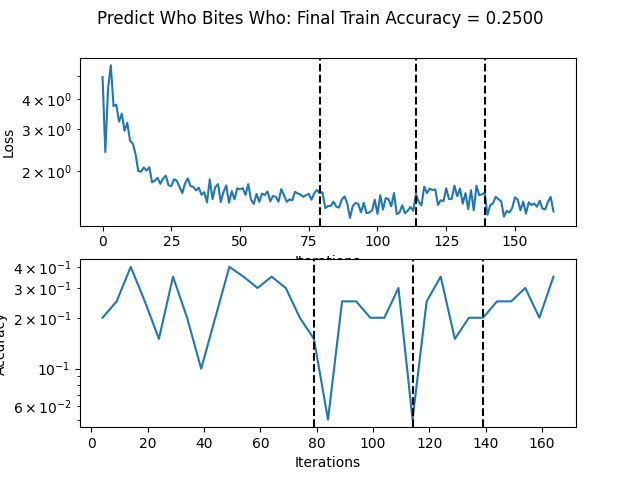
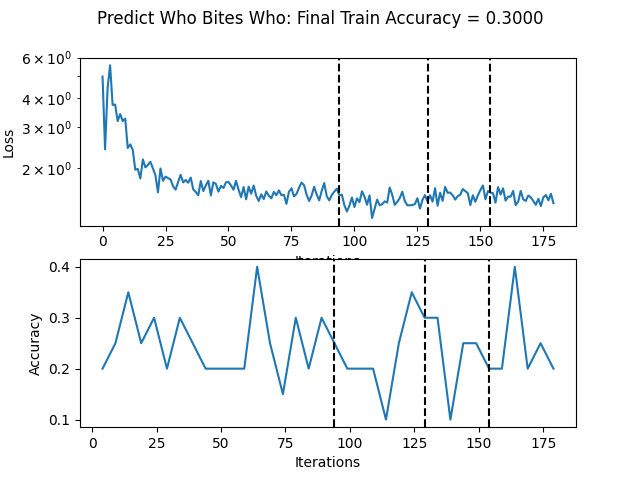
about to switc hto vocab list

diff --git a/Hw_6/runners/predict_who_bites_who.py b/Hw_6/runners/predict_who_bites_who.py
@@ -47,7 +47,7 @@ def train(config_path: Path, use_last_checkpoint: bool):
     rng.reset_from_seed(0x43966E87BD57227011B5B03B58785EC1)
     tf.random.set_seed(0x43966E87BD57227011B5B03B58785EC1)
 
-    # TODO: padding mask and causal mask, using the embedder
+    # TODO: padding mask
     with open("data/who_bites_who.txt", "r", encoding="utf-8") as f:
         one_big_slab_of_text = f.read()
 
@@ -98,7 +98,9 @@ def train(config_path: Path, use_last_checkpoint: bool):
 
     checkpoint = tf.train.Checkpoint(transformer_decoder)
     checkpoint_manager = tf.train.CheckpointManager(
-        checkpoint, "temp/checkpoints/predict_who_bites_who", max_to_keep=1
+        checkpoint,
+        "temp/checkpointtemp/checkpoints/predict_who_bites_whos/predict_who_bites_who",
+        max_to_keep=1,
     )
     if use_last_checkpoint:
         print("\n\nRestoring from last checkpoint")
@@ -193,18 +195,19 @@ def train(config_path: Path, use_last_checkpoint: bool):
                 adam.learning_rate = learning_rates[learning_rate_index]
                 learning_rate_change_steps = np.append(learning_rate_change_steps, i)
                 minimum_loss_step_num = i
-                checkpoint_manager.restore_or_initialize()
+                # TODO: i feel like this should be here but smth is wrong
+                # checkpoint_manager.restore_or_initialize()
 
     checkpoint_manager.restore_or_initialize()
+    checkpoint_manager = tf.train.CheckpointManager(
+        checkpoint, "artifacts/who_bites_who/model", max_to_keep=1
+    )
+
     batch_indices = rng.uniform(
         shape=[batch_size], maxval=tokenized_text.shape[0], dtype=tf.int32
     )
     input_tokens_batch = tf.gather(tokenized_text, batch_indices)
     targets_batch = tf.gather(hashed_targets, batch_indices)
-
-    labels = targets_batch
-    logits = transformer_decoder(input_tokens_batch)
-    final_train_accuracy = train_batch_accuracy(logits, labels)
 
     fig, ax = plt.subplots(2, 1)
 
@@ -214,17 +217,19 @@ def train(config_path: Path, use_last_checkpoint: bool):
     ax[0].set_xlabel("Iterations")
     ax[0].set_ylabel("Loss")
 
-    ax[1].semilogy(
-        x_train_accuracy_iterations, y_train_accuracy, label="Training Accuracy"
-    )
+    ax[1].plot(x_train_accuracy_iterations, y_train_accuracy, label="Training Accuracy")
     for learning_rate_change_step in learning_rate_change_steps:
         ax[1].axvline(x=learning_rate_change_step, color="black", linestyle="dashed")
     ax[1].set_xlabel("Iterations")
     ax[1].set_ylabel("Accuracy")
 
     print("\n\n\n\n")
-    # FIXME:why is it higher at the end
-    print(f"Final Training Loss => {current_train_loss:0.4f}")
+
+    labels = targets_batch
+    logits = transformer_decoder(input_tokens_batch)
+    final_train_accuracy = train_batch_accuracy(logits, labels)
+
+    print(f"Final Training Accuracy => {final_train_accuracy:0.4f}")
     print(f"Stop Iteration => {i}")
 
     fig.suptitle(
@@ -248,9 +253,8 @@ def train(config_path: Path, use_last_checkpoint: bool):
     config_path.write_text(yaml.dump(config))
 
     # save the model
-    checkpoint_manager.directory = "artifacts/who_bites_who/model"
     checkpoint_manager.save()
-    config_path = Path(f"artifacts/who_bites_who/model.yaml")
+    config_path = Path(f"artifacts/who_bites_who/model/model.yaml")
     config_path.write_text(yaml.dump(config))
 
 
@@ -274,20 +278,6 @@ def test(model_path: Path):
 
     num_word_to_tokenize = config["data"]["num_words_to_tokenize"]
 
-    # TODO: num_classes is now the number of tokens add that
-
-    # CLEANUP: remove
-    # num_classes = 4
-    # embed_classifier = EmbedClassifier(
-    #     num_embeddings,
-    #     embedding_depth,
-    #     num_word_to_tokenize,
-    #     dropout_prob,
-    #     num_hidden_layers,
-    #     hidden_layer_width,
-    #     num_classes,
-    # )
-
     checkpoint = tf.train.Checkpoint(TransformerDecoder)
     checkpoint.restore(tf.train.latest_checkpoint(model_path))
 
@@ -304,4 +294,6 @@ def test(model_path: Path):
 
     file = open("artifacts/agnews/classify_agnews_test_accuracy.txt", "w")
     file.write(f"{test_accuracy_value:0.4f}")
+    file.close()
+    file.close()
     file.close()

diff --git a/Hw_6/runners/classify_agnews.py b/Hw_6/runners/classify_agnews.py
@@ -200,8 +200,7 @@ def train(config_path: Path, use_last_checkpoint: bool):
 
     rng = tf.random.get_global_generator()
     rng.reset_from_seed(0x43966E87BD57227011B5B03B58785EC1)
-    # CLEANUP: put this back in once we know that everythin is working
-    # tf.random.set_seed(0x43966E87BD57227011B5B03B58785EC1)
+    tf.random.set_seed(0x43966E87BD57227011B5B03B58785EC1)
 
     dataset = load_dataset("ag_news")
     train_and_val_labels = dataset["train"]["label"]
